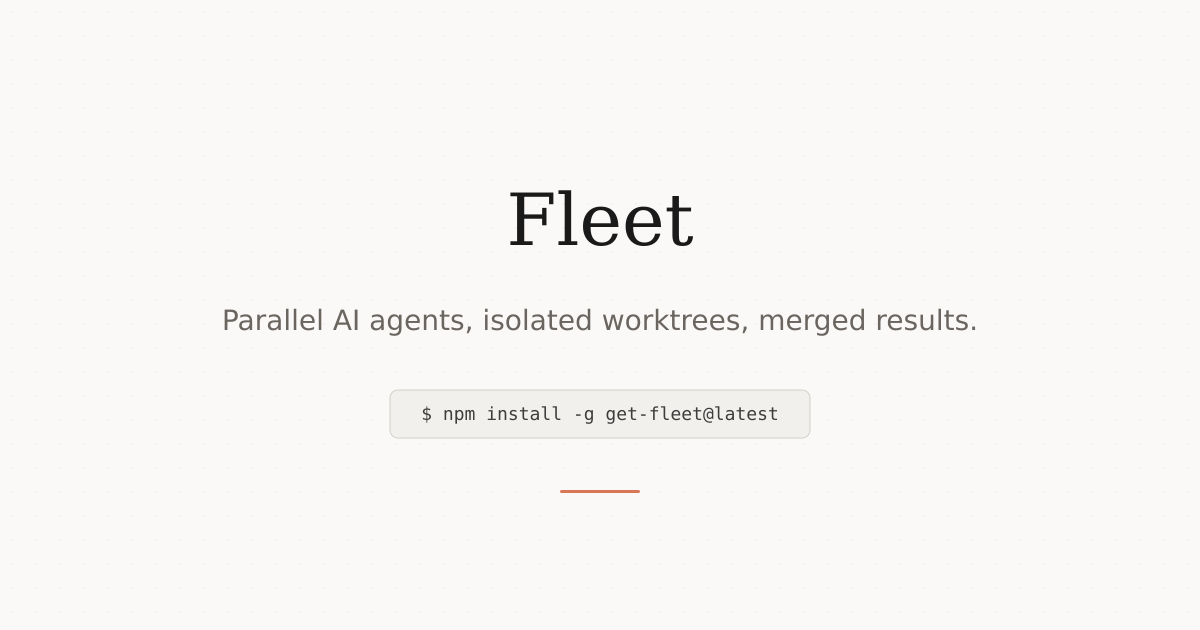
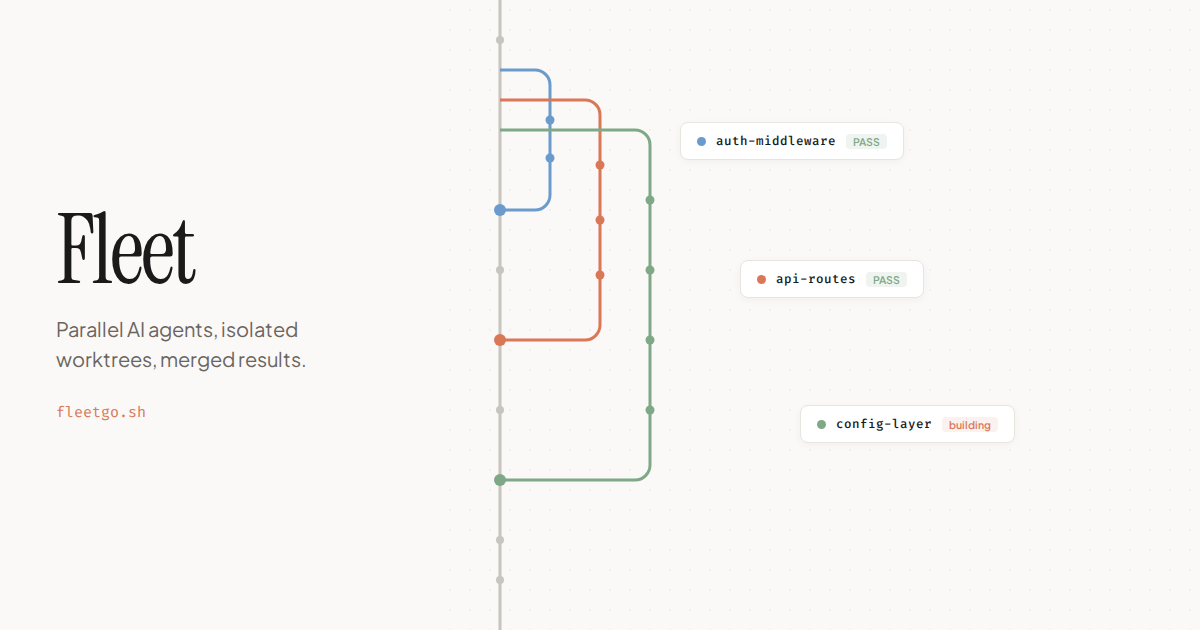
feat: redesign OG image with authentic git graph visualization

diff --git a/website/og-template.html b/website/og-template.html
@@ -1,0 +1,222 @@
+<!DOCTYPE html>
+<html lang="en">
+<head>
+  <meta charset="UTF-8">
+  <meta name="viewport" content="width=1200">
+  <link rel="preconnect" href="https://fonts.googleapis.com">
+  <link rel="preconnect" href="https://fonts.gstatic.com" crossorigin>
+  <link href="https://fonts.googleapis.com/css2?family=Instrument+Serif&family=Plus+Jakarta+Sans:wght@400;500;600;700&family=Fira+Code:wght@400;500&display=swap" rel="stylesheet">
+  <style>
+    * { margin: 0; padding: 0; box-sizing: border-box; }
+
+    body {
+      width: 1200px;
+      height: 630px;
+      font-family: 'Plus Jakarta Sans', system-ui, sans-serif;
+      background-color: #faf9f7;
+      overflow: hidden;
+      position: relative;
+      display: flex;
+    }
+
+    .left {
+      width: 440px;
+      padding: 0 56px;
+      display: flex;
+      flex-direction: column;
+      justify-content: center;
+      gap: 20px;
+      position: relative;
+      z-index: 2;
+    }
+
+    .title {
+      font-family: 'Instrument Serif', Georgia, serif;
+      font-size: 96px;
+      font-weight: 400;
+      color: #1a1a1a;
+      letter-spacing: -0.03em;
+      line-height: 0.9;
+    }
+
+    .tagline {
+      font-size: 20px;
+      line-height: 1.5;
+      color: #6b6560;
+      max-width: 340px;
+    }
+
+    .url {
+      font-family: 'Fira Code', monospace;
+      font-size: 15px;
+      color: #d97757;
+      margin-top: 8px;
+    }
+
+    .right {
+      flex: 1;
+      position: relative;
+      overflow: hidden;
+    }
+
+    .right::before {
+      content: '';
+      position: absolute;
+      inset: 0;
+      background-image: radial-gradient(circle, rgba(0,0,0,0.035) 1px, transparent 1px);
+      background-size: 20px 20px;
+    }
+
+    .graph-wrap {
+      position: absolute;
+      inset: 0;
+      display: flex;
+      align-items: center;
+    }
+
+    .graph-svg {
+      width: 760px;
+      height: 630px;
+    }
+
+    /* Agent labels — positioned next to their branch */
+    .label {
+      position: absolute;
+      display: flex;
+      align-items: center;
+      gap: 10px;
+      background: white;
+      border: 1px solid #e8e5df;
+      border-radius: 8px;
+      padding: 10px 16px;
+      box-shadow: 0 2px 8px rgba(0,0,0,0.04);
+      z-index: 2;
+      white-space: nowrap;
+    }
+
+    .label__dot {
+      width: 9px;
+      height: 9px;
+      border-radius: 50%;
+      flex-shrink: 0;
+    }
+
+    .label__name {
+      font-family: 'Fira Code', monospace;
+      font-size: 12.5px;
+      font-weight: 500;
+      color: #1a1a1a;
+    }
+
+    .label__badge {
+      font-size: 10.5px;
+      font-weight: 600;
+      padding: 1px 7px;
+      border-radius: 4px;
+    }
+
+    .badge--pass { background: rgba(127, 168, 135, 0.12); color: #7fa887; }
+    .badge--building { background: rgba(217, 119, 87, 0.1); color: #d97757; }
+
+    .label--1 { top: 122px; left: 240px; }
+    .label--2 { top: 260px; left: 300px; }
+    .label--3 { top: 405px; left: 360px; }
+  </style>
+</head>
+<body>
+  <div class="left">
+    <h1 class="title">Fleet</h1>
+    <p class="tagline">Parallel AI agents, isolated worktrees, merged results.</p>
+    <span class="url">fleetgo.sh</span>
+  </div>
+
+  <div class="right">
+    <div class="graph-wrap">
+      <svg class="graph-svg" viewBox="0 0 760 630" fill="none" xmlns="http://www.w3.org/2000/svg">
+        <!--
+          Authentic git graph style:
+          - Trunk is a continuous vertical line
+          - Branches fork right with rounded corners, run parallel, merge back
+          - Dots ONLY where commits exist (on branches = work, on trunk = merges)
+          - Fork points have no special dot — the line just departs
+          - Thicker lines for visibility at thumbnail size
+        -->
+
+        <!-- Main trunk — runs full height, drawn UNDER branches -->
+        <line x1="60" y1="0" x2="60" y2="630" stroke="#c8c4be" stroke-width="3"/>
+
+        <!-- Branch 1 (blue) — forks at y=70, runs at x=110, merges at y=210 -->
+        <path d="
+          M 60 70
+          L 95 70 A 15 15 0 0 1 110 85
+          L 110 195 A 15 15 0 0 1 95 210
+          L 60 210
+        " stroke="#6a9bcc" stroke-width="3" fill="none" stroke-linejoin="round"/>
+
+        <!-- Branch 2 (orange) — forks at y=100, runs at x=160, merges at y=340 -->
+        <path d="
+          M 60 100
+          L 145 100 A 15 15 0 0 1 160 115
+          L 160 325 A 15 15 0 0 1 145 340
+          L 60 340
+        " stroke="#d97757" stroke-width="3" fill="none" stroke-linejoin="round"/>
+
+        <!-- Branch 3 (green) — forks at y=130, runs at x=210, merges at y=480 -->
+        <path d="
+          M 60 130
+          L 195 130 A 15 15 0 0 1 210 145
+          L 210 465 A 15 15 0 0 1 195 480
+          L 60 480
+        " stroke="#7fa887" stroke-width="3" fill="none" stroke-linejoin="round"/>
+
+        <!-- Commit dots — branch work (small, on the branch line) -->
+        <!-- Blue branch commits -->
+        <circle cx="110" cy="120" r="4.5" fill="#6a9bcc"/>
+        <circle cx="110" cy="158" r="4.5" fill="#6a9bcc"/>
+
+        <!-- Orange branch commits -->
+        <circle cx="160" cy="165" r="4.5" fill="#d97757"/>
+        <circle cx="160" cy="220" r="4.5" fill="#d97757"/>
+        <circle cx="160" cy="275" r="4.5" fill="#d97757"/>
+
+        <!-- Green branch commits -->
+        <circle cx="210" cy="200" r="4.5" fill="#7fa887"/>
+        <circle cx="210" cy="270" r="4.5" fill="#7fa887"/>
+        <circle cx="210" cy="340" r="4.5" fill="#7fa887"/>
+        <circle cx="210" cy="410" r="4.5" fill="#7fa887"/>
+
+        <!-- Merge commits on trunk (larger, colored) -->
+        <circle cx="60" cy="210" r="6" fill="#6a9bcc"/>
+        <circle cx="60" cy="340" r="6" fill="#d97757"/>
+        <circle cx="60" cy="480" r="6" fill="#7fa887"/>
+
+        <!-- Trunk commits between merges (small gray) -->
+        <circle cx="60" cy="40" r="4" fill="#c8c4be"/>
+        <circle cx="60" cy="270" r="4" fill="#c8c4be"/>
+        <circle cx="60" cy="410" r="4" fill="#c8c4be"/>
+        <circle cx="60" cy="540" r="4" fill="#c8c4be"/>
+        <circle cx="60" cy="580" r="4" fill="#c8c4be"/>
+      </svg>
+
+      <!-- Agent labels next to branches -->
+      <div class="label label--1">
+        <span class="label__dot" style="background:#6a9bcc"></span>
+        <span class="label__name">auth-middleware</span>
+        <span class="label__badge badge--pass">PASS</span>
+      </div>
+
+      <div class="label label--2">
+        <span class="label__dot" style="background:#d97757"></span>
+        <span class="label__name">api-routes</span>
+        <span class="label__badge badge--pass">PASS</span>
+      </div>
+
+      <div class="label label--3">
+        <span class="label__dot" style="background:#7fa887"></span>
+        <span class="label__name">config-layer</span>
+        <span class="label__badge badge--building">building</span>
+      </div>
+    </div>
+  </div>
+</body>
+</html>